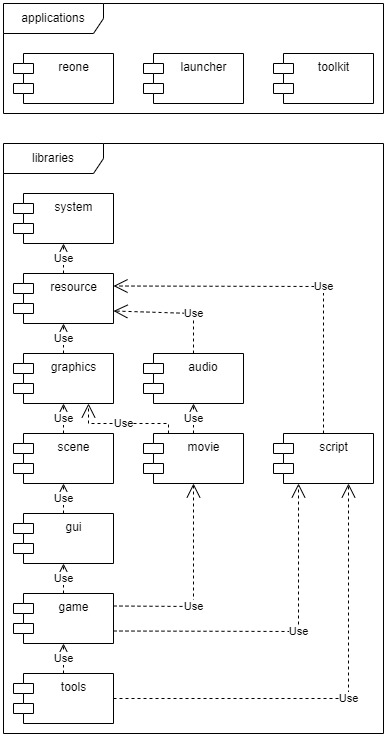
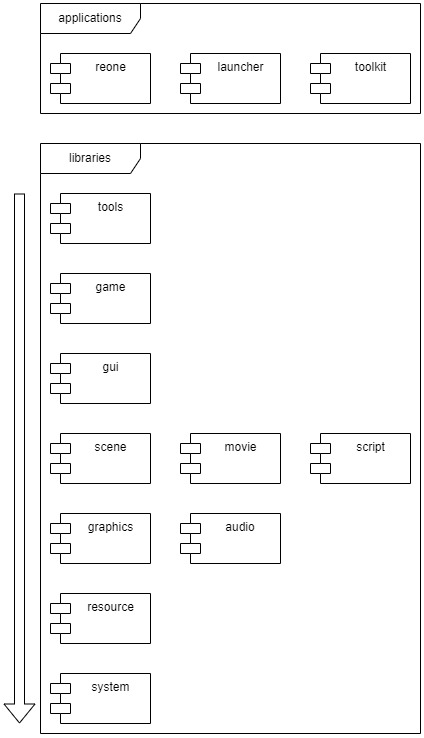
Update modules diagram: change lib order from high- to low-level, single arrow

diff --git a/test/fixtures/script.h b/test/fixtures/script.h
@@ -30,7 +30,7 @@ namespace script {
 
 class MockRoutine : public Routine {
 public:
-    usinsg InvokeInvocation = std::tuple<std::vector<Variable>, ExecutionContext>;
+    using InvokeInvocation = std::tuple<std::vector<Variable>, ExecutionContext>;
 
     MockRoutine(
         std::string name,
